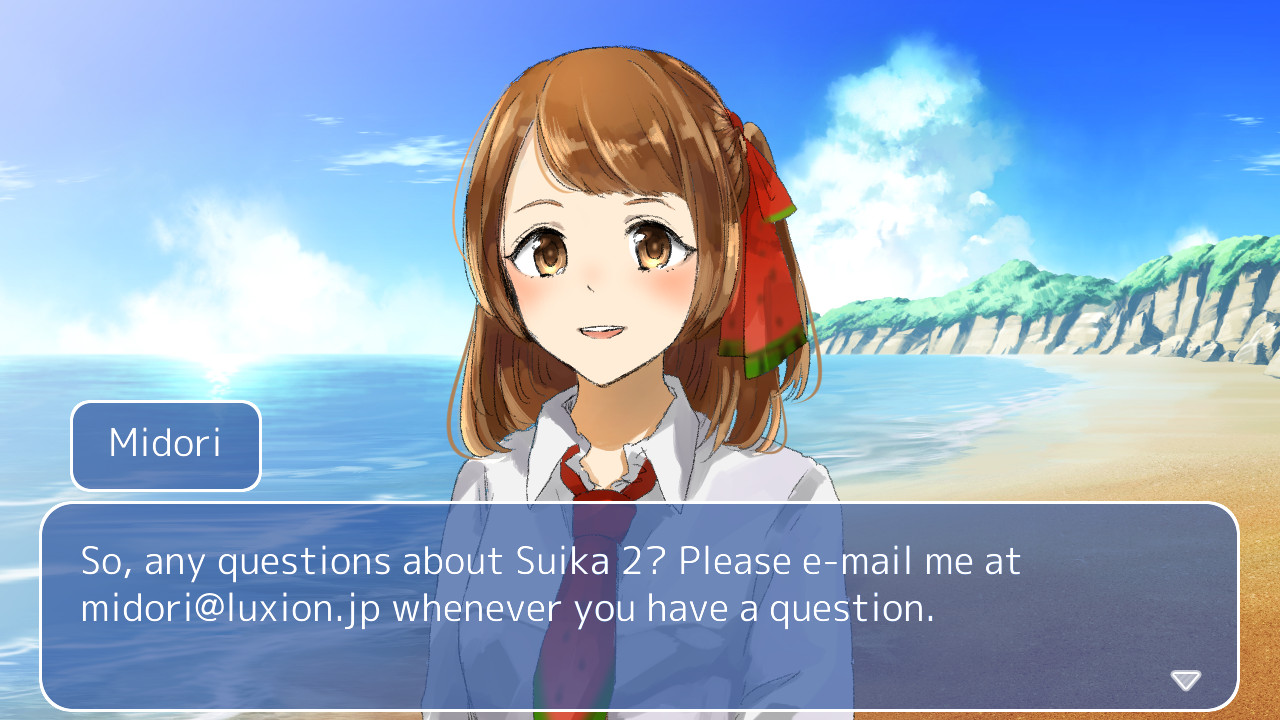
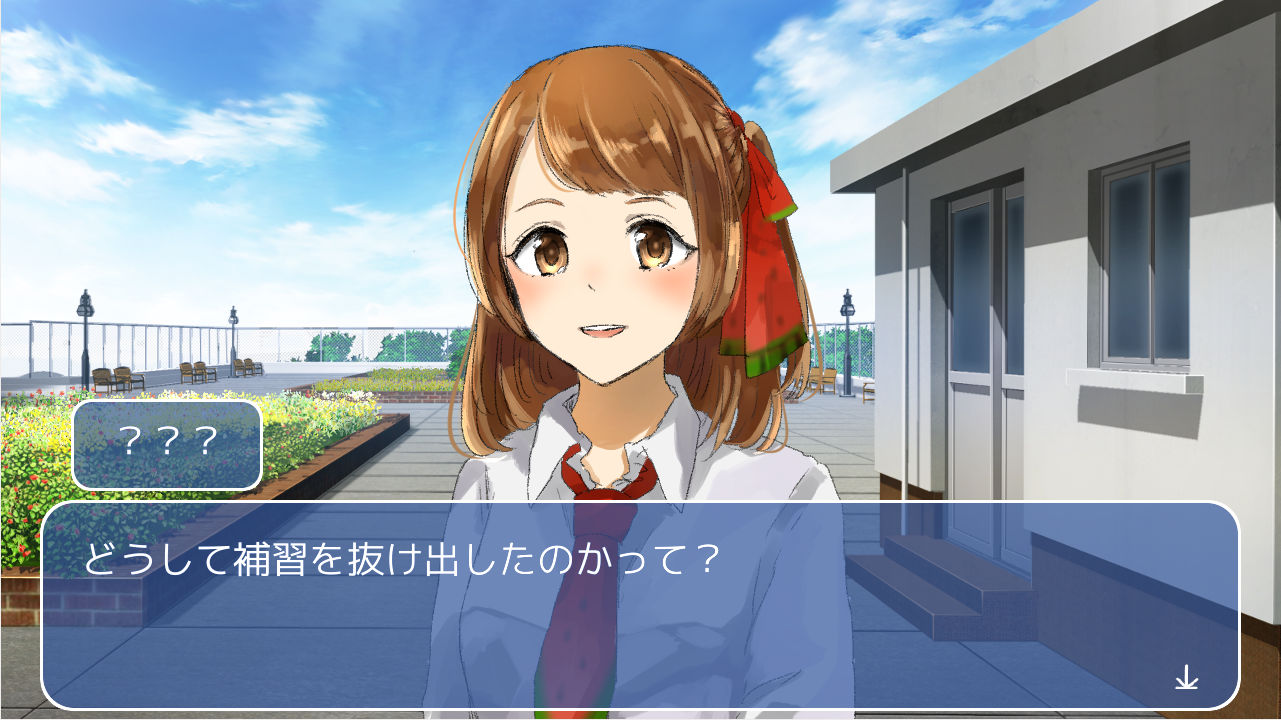
Change English screenshot.

diff --git a/README.md b/README.md
@@ -5,7 +5,7 @@ Suika 2 is a portable game engine that runs on both Windows and Mac. You can enj
 
 ## Demo
 
-![demo](https://github.com/ktabata/suika2/raw/master/doc/screenshot.jpg "screenshot")
+![demo](https://github.com/ktabata/suika2/raw/master/doc/screenshot-en.jpg "screenshot")
 
 ## Portability
 
